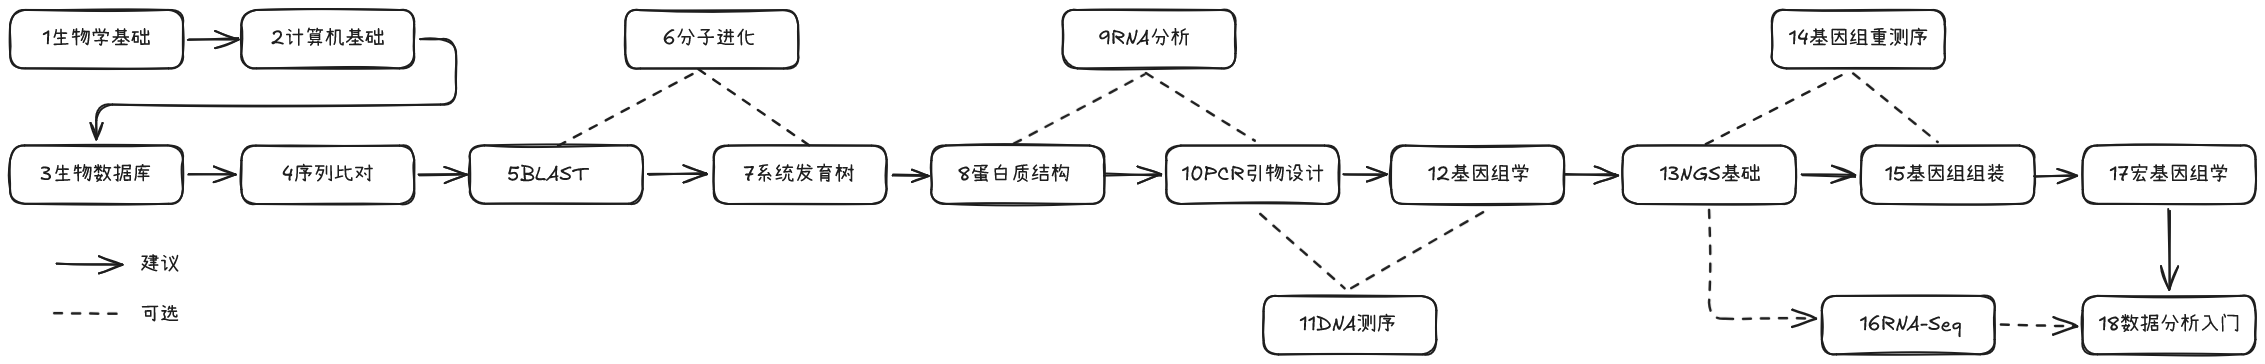
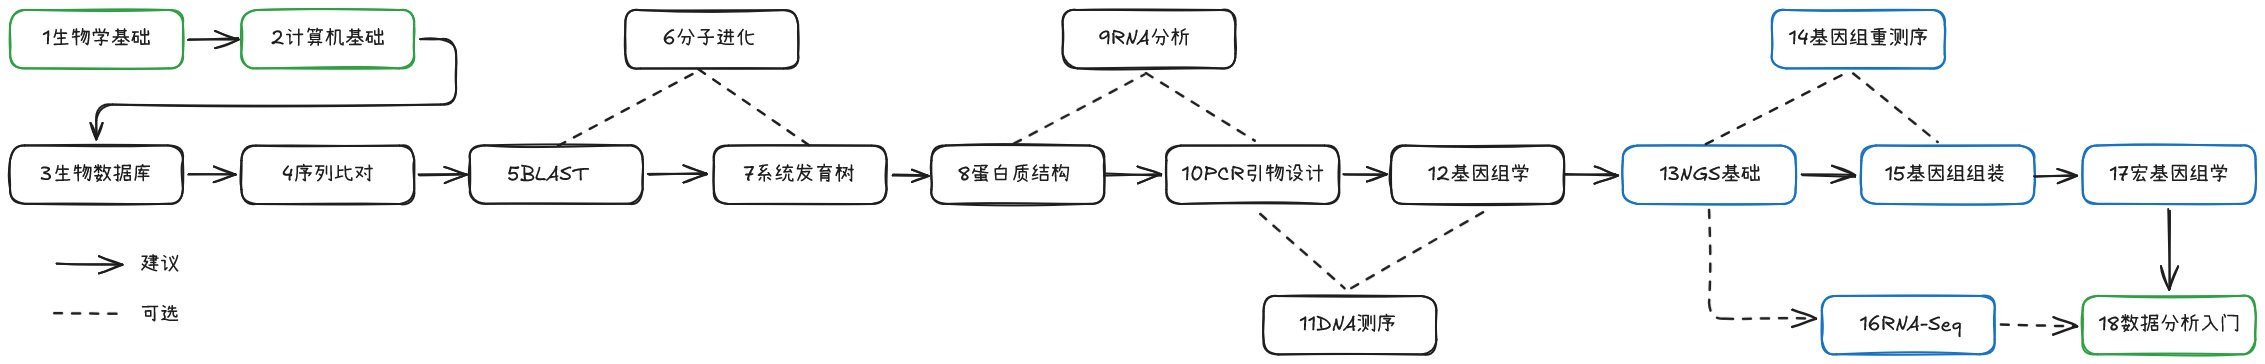
noxx

diff --git a/gitbook/README.md b/gitbook/README.md
@@ -10,8 +10,8 @@
 
 ![Venn-diagram-bioinformatics](http://www.ligene.cn/images/Venn-diagram-bioinformatics.png)
 
-本书是编者在近几年给生物、食品专业学生讲授生物信息学课程的基础上整理编撰而成。全书以理论与实践操作相结合的方式深入讲解生物信息学的基本理论和方法，在内容设计上既有详细的原理讲解部分，又有典型的实训案例分析，双管齐下，增加了学习趣味性，从而让学生学到更多的知识与技能。  
-全书共有18章，可分为三部分：
+本书是编者在近几年给生物、食品专业学生讲授生物信息学课程的基础上整理编撰而成。全书以理论讲解与实践操作相结合的方式深入讲解生物信息学的基本理论和方法，在内容设计上既有详细的原理讲解部分，又有典型的实训案例分析，双管齐下，增加了学习趣味性，从而让学生学到更多的知识与技能。  
+全书共有18章，可分为三部分（下图中不同颜色标注）：
 * 第1、第2与第18章分别为生物学、计算机与统计学的基础知识与技能，并在附录中介绍Linux系统、编程语言与概率论等基础知识；
 * 第3-12章为生物信息学与基因组学的基本理论与方法，如DNA、RNA与蛋白质序列分析等；
 * 第13-17章介绍下一代测序(NGS)数据分析方法及应用，如遗传变异检测(Variant detection),基因组组装(Genome assembly), 转录组测序(RNA-seq)与宏基因组学(Metagenomics)等；
@@ -19,11 +19,12 @@
 教材每章内容适用于一次教学课时(1.5h)，教师可根据不同教学课时(如32/48)选讲部分章节内容，其它章节内容供学生自学。本教材的推荐教学安排如下图所示：
 ![Teaching-Plan-bioinformatics](./zx/BioinfoTeachingPlan.png)
 
-另外，生物信息学是一门实践性很强的课程，适合采用“理实一体化”的教学方式，课堂上既有老师的讲述内容，又有学生独立思考、上机操作的内容，能激发学生的学习积极性与创造性。假如每学期为16个课时，可安排课堂讲授11-12个课时，再结合上机实践练习4-5个课时。
+另外，生物信息学是一门实践性很强的课程，适合采用“理实一体化”的教学方式，课堂上既有老师讲述理论内容，又有学生独立思考、上机操作实践内容，能激发学生的学习积极性与创造性。假如每学期为16个课时，可安排课堂讲授11-12个课时，再结合上机实践练习4-5个课时。
 
 > 本站是教材[1]的配套电子书，提供纸质教材的内容扩展或更新，其中使用了其它网站或书籍的材料，仅供学生个人学习使用(侵删)。囿于本人水平有限，错漏之处在所难免，欢迎各位读者、同行指出错误或提出改进意见！您可以通过发送电子邮件(youdng#AT#hotmail.com)或加入QQ群(631381323)与我联系。
 
 #### 教材配套资源:
+本教材所需要的软件、数据或文献等资源可从本站相关章节或从以下网盘下载：
 * 百度网盘链接：https://pan.baidu.com/s/1eMiHyb7mW4Nrbsfpw9JtdA (提取码: txh5)。
 * 阿里云盘链接：https://www.aliyundrive.com/s/ZpsnsRCL2so
 
